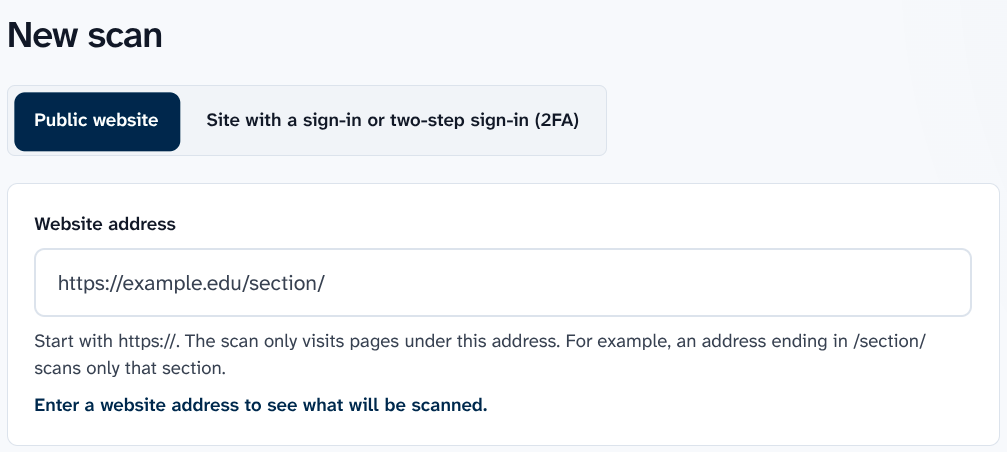
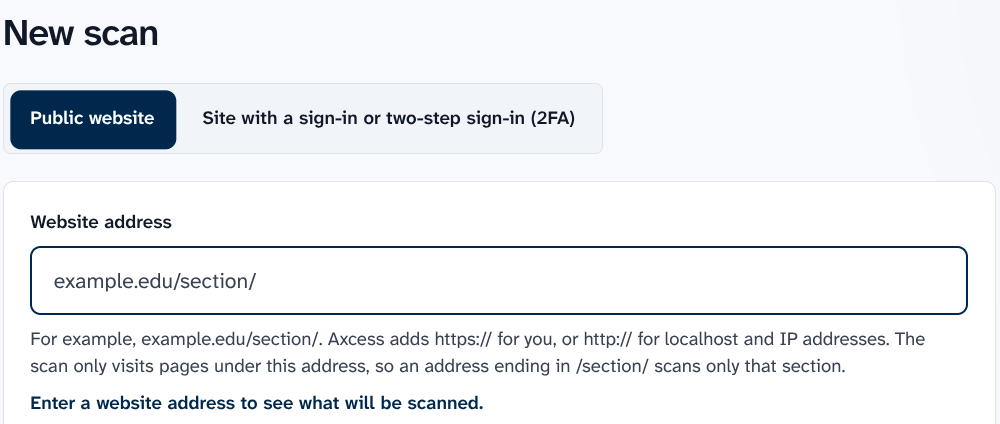
Use current app screenshots on Get started, and show the report
Two step pictures no longer matched the app:

- "Start the scan" showed a Cancel button the app removed in 0.2.3.
- "Enter the address" showed the old hint, from before Axcess added
  https:// for you. The step's example drops https:// to match.

Both are retaken from the current app, with new alt text. "Read your
first report" also gains two real screenshots, in the order a report is
read, each with a caption and alt text that says what is shown and
where: the Issues tab (search, filter, the recommended order, and the
How sure and Where it shows columns), taken from a local run of the app,
and a flagged element in the Page inspector, from the developer's
screenshots. The cards below still say everything in words.

diff --git a/tests/public_site/test_public_site.py b/tests/public_site/test_public_site.py
@@ -282,9 +282,10 @@ def test_install_drawings_are_named_pictures(pages: dict[str, str]) -> None:
 
 
 def test_step_screenshots_have_alt_text_and_size(pages: dict[str, str]) -> None:
-    # Four on Get started (the first scan), three with the sign-in steps.
+    # Six on Get started (four first-scan steps, two of the report), three
+    # with the sign-in steps.
     shots = []
-    for route, count in (("get-started/", 4), ("sign-in-scan/", 3)):
+    for route, count in (("get-started/", 6), ("sign-in-scan/", 3)):
         imgs = _parse(pages[route]).imgs
         found = [img for img in imgs if "/screens/" in (img.get("src") or "")]
         assert len(found) == count, route
